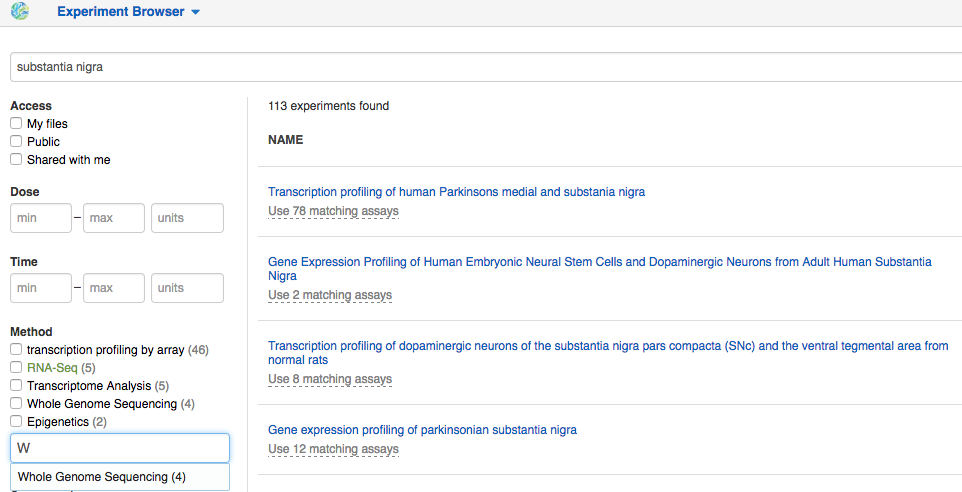
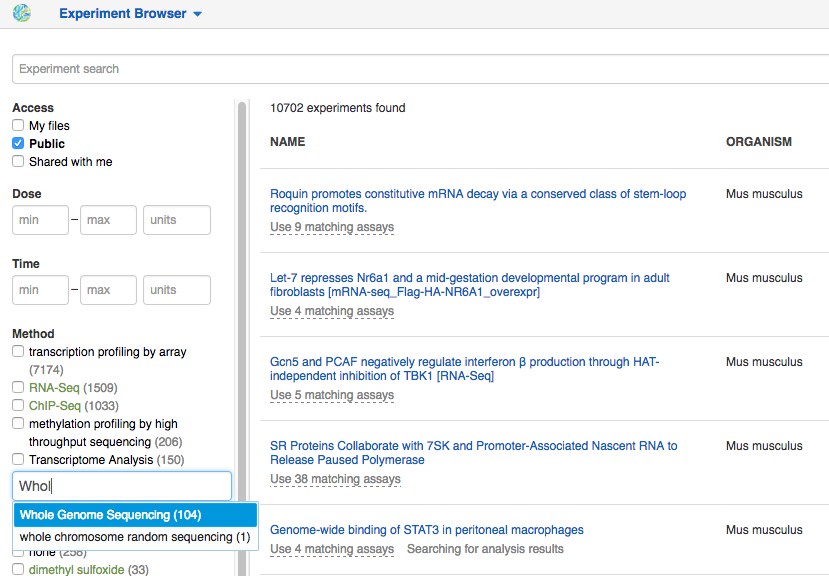
replace obsolete image

diff --git a/user-guide/source/guide/using-genestack.rst b/user-guide/source/guide/using-genestack.rst
@@ -449,7 +449,7 @@ You can search relevant data with **a free-text query**, and you can further
 filter down experiments by **metadata attributes** using the checkboxes
 on the left. These attributes are generated based on the metadata available for experiments.
 For instance, you can set the filters 'Access', 'Method'
-and 'Organism' to 'Public', 'RNA-Seq', 'Mus musculus', respectively,
+and 'Organism' to 'Public', 'Whole Genome Sequencing', 'Mus musculus', respectively,
 to filter out publicly accessible data on mice obtained from mouse RNA-Seq data.
 
 .. image:: images/experiment-browser.png
